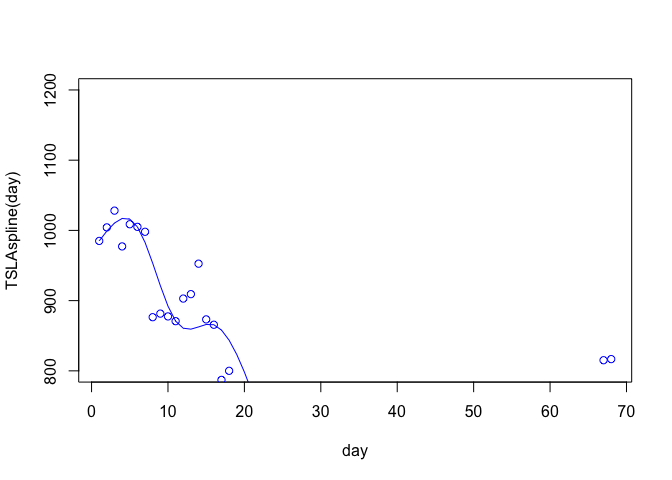
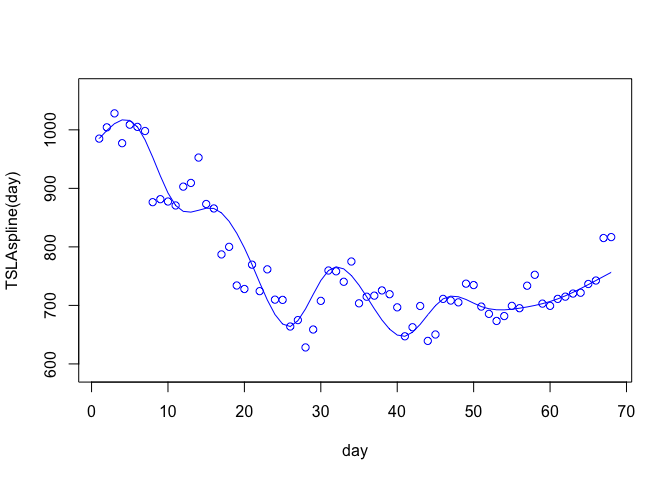
Edits to course notes

diff --git a/coursenotes/coursenotes.md b/coursenotes/coursenotes.md
@@ -2295,14 +2295,16 @@ markets were closed, including weekends).
     sampledprice <- price[seq(from = 1, to = length(price), by = 5)]
     # Fit interpolating polynomial
     interpolatedprice <- lagrangeInterp(sampledday, sampledprice, day[1:max(sampledday)])
-    plot(day[1:max(sampledday)], interpolatedprice, col = "red", type = "l", ylim = c(800,1200))
+    ymin <- min(price) - 0.1*(max(price) - min(price))
+    ymax <- max(price) + 0.1*(max(price) - min(price))
+    plot(day[1:max(sampledday)], interpolatedprice, col = "red", type = "l", ylim = c(ymin,ymax))
     points(day, price, col = "blue")
 
 ![](coursenotes_files/figure-markdown_strict/unnamed-chunk-42-1.png)
 
     # Fit splines
     TSLAspline <- splinefun(sampledday, sampledprice, method = "natural")
-    plot(day, TSLAspline(day), col = "blue", type = "l", ylim = c(800,1200))
+    plot(day, TSLAspline(day), col = "blue", type = "l", ylim = c(ymin,ymax))
     points(day, price, col = "blue")
 
 ![](coursenotes_files/figure-markdown_strict/unnamed-chunk-42-2.png)
